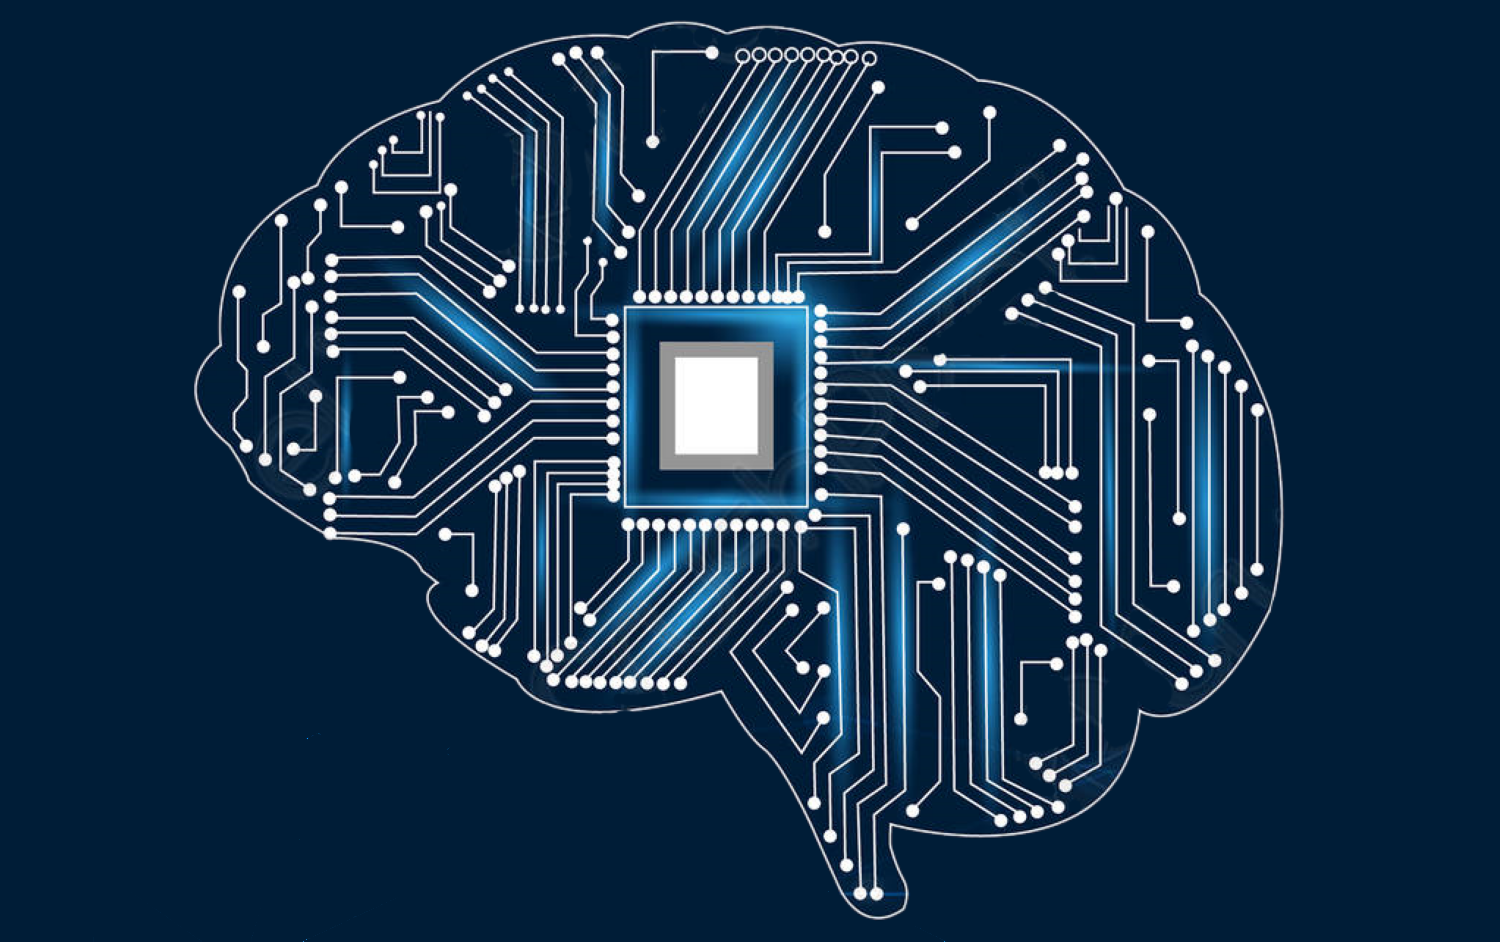
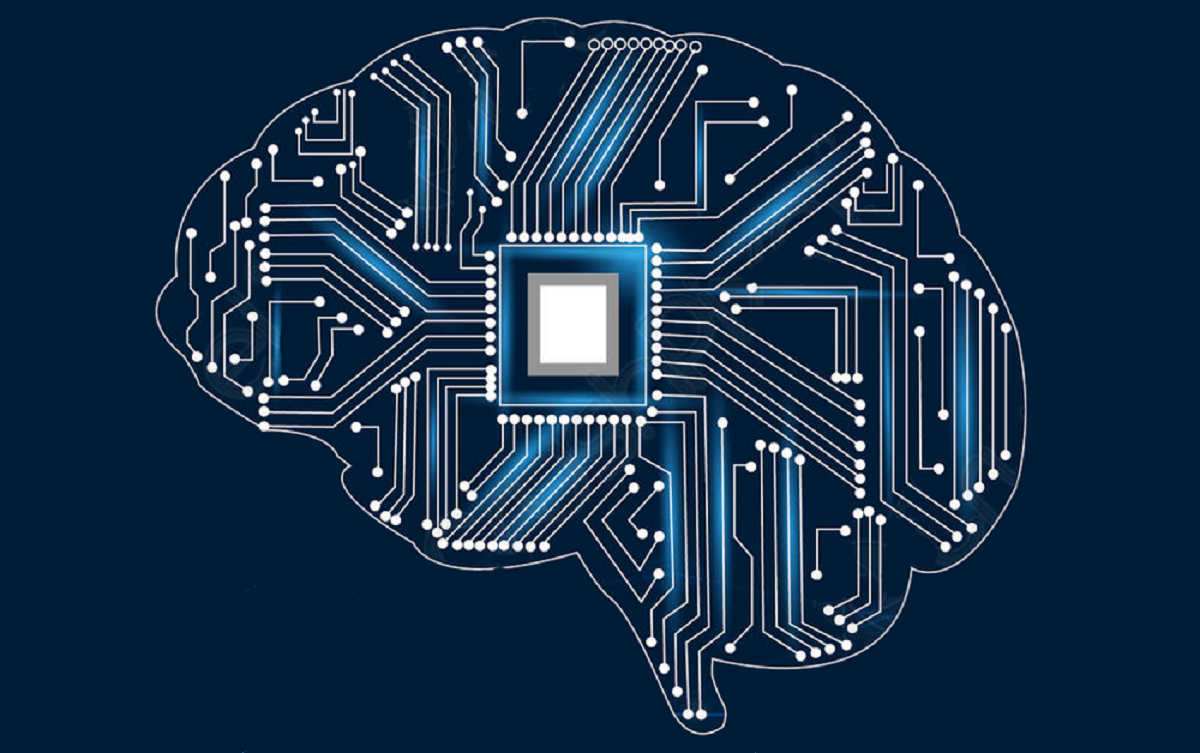
modified background image

diff --git a/client/src/components/HomeHeader/index.js b/client/src/components/HomeHeader/index.js
@@ -1,6 +1,6 @@
 import React from "react";
 import logo from "../../logo.png";
-import Background from "../../06.png";
+import Background from "../../background.png";
 import { Row, Col } from "react-materialize";
 
 function HomeHeader() {
